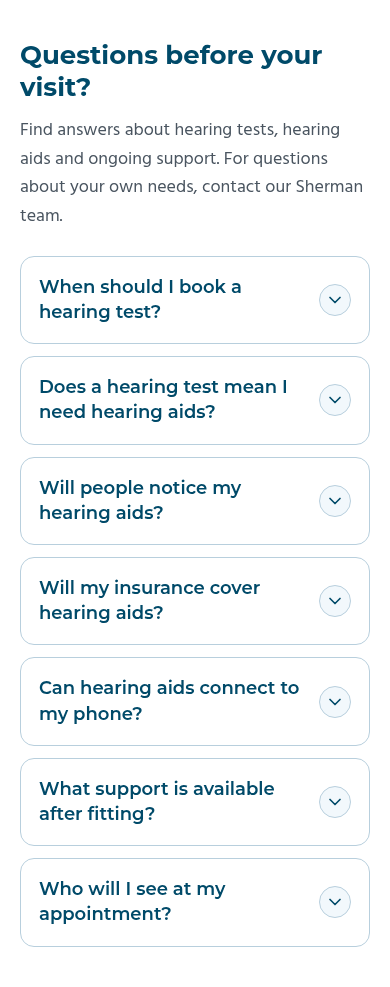
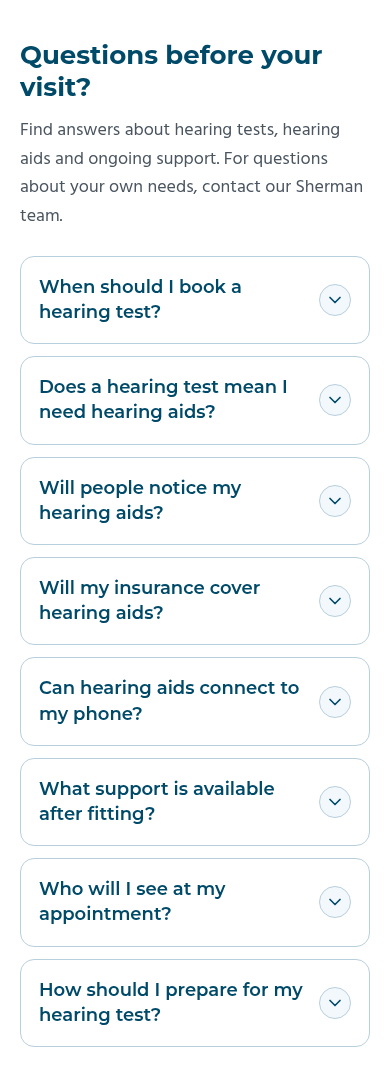
Add source-backed hearing test preparation FAQ

diff --git a/index.html b/index.html
@@ -1148,6 +1148,10 @@ a:hover{ color:var(--hc-navy); }
         <summary>Who will I see at my appointment?<span class="hc-faq__chev" aria-hidden="true"><svg class="hc-icon"><use href="#i-chev"/></svg></span></summary>
         <div class="hc-faq__a"><p>HearCare is owned and led by Kenneth M. Sheppard, Jr. and Jill A. Sheppard, both Licensed Fitters and Dispensers of Hearing Instruments.</p><p>Ask when you call or text to confirm which team member you’ll see at the Sherman office.</p></div>
       </details>
+      <details>
+        <summary>How should I prepare for my hearing test?<span class="hc-faq__chev" aria-hidden="true"><svg class="hc-icon"><use href="#i-chev"/></svg></span></summary>
+        <div class="hc-faq__a"><p>Note the situations where hearing is difficult and be ready to discuss your medical history and current medications. You’re welcome to bring a friend or family member for support.</p></div>
+      </details>
     </div>
   </div>
 </section>

diff --git a/review/hero-review.html b/review/hero-review.html
@@ -1148,6 +1148,10 @@ a:hover{ color:var(--hc-navy); }
         <summary>Who will I see at my appointment?<span class="hc-faq__chev" aria-hidden="true"><svg class="hc-icon"><use href="#i-chev"/></svg></span></summary>
         <div class="hc-faq__a"><p>HearCare is owned and led by Kenneth M. Sheppard, Jr. and Jill A. Sheppard, both Licensed Fitters and Dispensers of Hearing Instruments.</p><p>Ask when you call or text to confirm which team member you’ll see at the Sherman office.</p></div>
       </details>
+      <details>
+        <summary>How should I prepare for my hearing test?<span class="hc-faq__chev" aria-hidden="true"><svg class="hc-icon"><use href="#i-chev"/></svg></span></summary>
+        <div class="hc-faq__a"><p>Note the situations where hearing is difficult and be ready to discuss your medical history and current medications. You’re welcome to bring a friend or family member for support.</p></div>
+      </details>
     </div>
   </div>
 </section>

diff --git a/CONTENT_DIRECTION.md b/CONTENT_DIRECTION.md
@@ -235,3 +235,8 @@ User: “Looks good, next move to the next one, i approve this section.” Payme
 ## Approved FAQ rebuild — Layout A, headline 1
 
 User approved Layout A + “Questions before your visit?” after desktop/mobile and expanded-answer screenshot review. Desktop: short introduction left, wider bordered accordion right. Mobile: introduction then full-width question/answer panels. Keep all seven topics; distinguish signs that suggest testing from whether a test implies hearing aids. Tighten answers while retaining suitability, medical-treatment, coverage, connectivity, support/lifespan and accurate credentials/staffing limitations. Rounded borders, circular chevrons, pale-blue open headers and padded white answers; preserve native keyboard-operable details and visible inset focus. Main prose remains 18px. All items initially closed; allow independent expansion without custom scripts. No image or additional CTA needed. Other sections and integrations unchanged. Implemented for rendered review, NOT LOCKED.
+
+
+## Approved preparation FAQ addition
+
+User requested implementing the source-backed recommendation with “please do it.” Add an eighth FAQ, “How should I prepare for my hearing test?” Answer: note difficult listening situations, be ready to discuss medical history/current medications, and optionally bring a friend or family member. Source S19 in RESEARCH.md is the clinic’s preparation article. Do not imply a required-items checklist or promise a duration/fee. Existing seven answers, styling, sticky introduction, contact integrations and other sections remain unchanged. FAQ remains pending rendered approval.

diff --git a/PAGE_STRATEGY.md b/PAGE_STRATEGY.md
@@ -299,3 +299,8 @@ User: “Looks good, next move to the next one, i approve this section.” Payme
 ## Approved FAQ rebuild — Layout A, headline 1
 
 User approved Layout A + “Questions before your visit?” after desktop/mobile and expanded-answer screenshot review. Desktop: short introduction left, wider bordered accordion right. Mobile: introduction then full-width question/answer panels. Keep all seven topics; distinguish signs that suggest testing from whether a test implies hearing aids. Tighten answers while retaining suitability, medical-treatment, coverage, connectivity, support/lifespan and accurate credentials/staffing limitations. Rounded borders, circular chevrons, pale-blue open headers and padded white answers; preserve native keyboard-operable details and visible inset focus. Main prose remains 18px. All items initially closed; allow independent expansion without custom scripts. No image or additional CTA needed. Other sections and integrations unchanged. Implemented for rendered review, NOT LOCKED.
+
+
+## Approved preparation FAQ addition
+
+User requested implementing the source-backed recommendation with “please do it.” Add an eighth FAQ, “How should I prepare for my hearing test?” Answer: note difficult listening situations, be ready to discuss medical history/current medications, and optionally bring a friend or family member. Source S19 in RESEARCH.md is the clinic’s preparation article. Do not imply a required-items checklist or promise a duration/fee. Existing seven answers, styling, sticky introduction, contact integrations and other sections remain unchanged. FAQ remains pending rendered approval.

diff --git a/review/FAQ_REVIEW.md b/review/FAQ_REVIEW.md
@@ -39,3 +39,11 @@ User requested that the FAQ left column slide downward with scroll like parallax
 
 
 Scroll verification: at 768, 1024, 1440 and 1920px, the intro holds its configured offset while scrolling and remains constrained by its FAQ parent. At 320, 390 and 500px it remains static. Emulated reduced-motion settings restore static position on all checked desktop/tablet widths. Repeated 49 item/viewport keyboard checks and overflow checks passed. The CSS uses no transforms, animations or custom scroll handlers.
+
+
+## Approved preparation FAQ addition
+
+User requested implementing the source-backed recommendation with “please do it.” Add an eighth FAQ, “How should I prepare for my hearing test?” Answer: note difficult listening situations, be ready to discuss medical history/current medications, and optionally bring a friend or family member. Source S19 in RESEARCH.md is the clinic’s preparation article. Do not imply a required-items checklist or promise a duration/fee. Existing seven answers, styling, sticky introduction, contact integrations and other sections remain unchanged. FAQ remains pending rendered approval.
+
+
+Preparation follow-up validation: eight questions at all seven widths; all 56 keyboard item/viewport open/close checks passed, no collapsed/expanded overflow, answer text remains 18px, and desktop scroll-follow/boundary/reduced-motion checks still pass. Exact page-source comparison confirms only the eighth details element was added.
